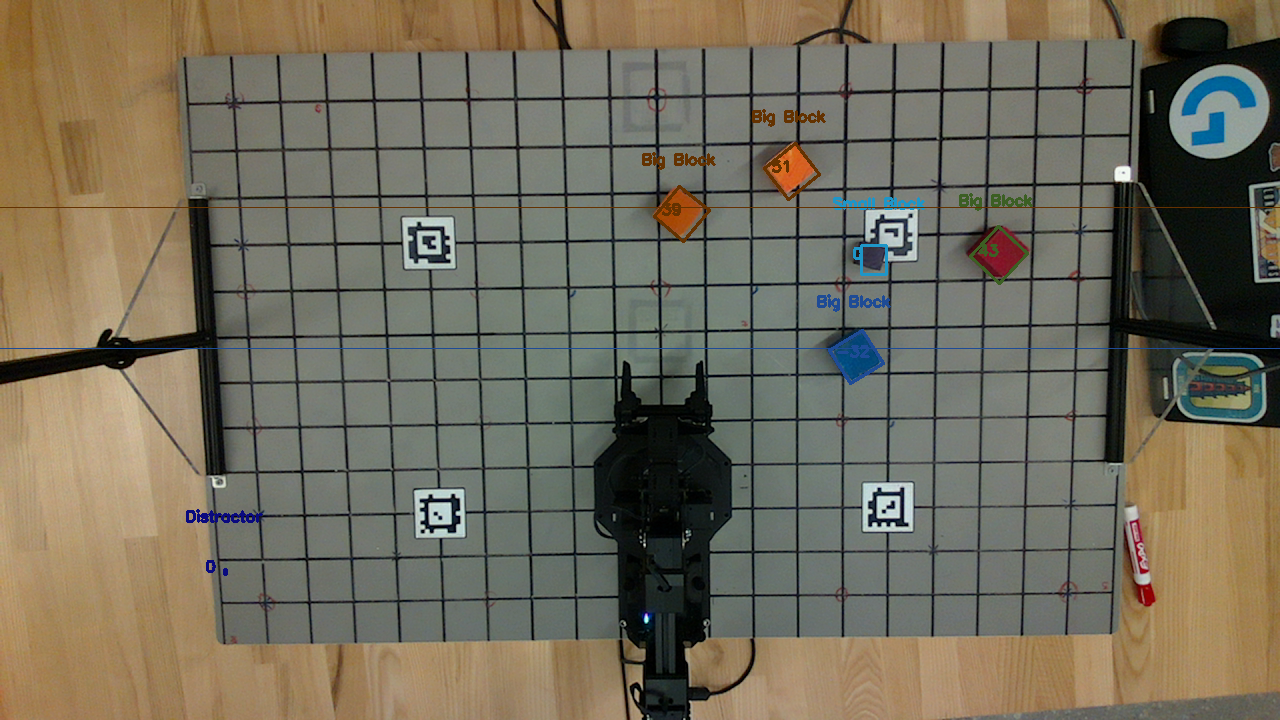
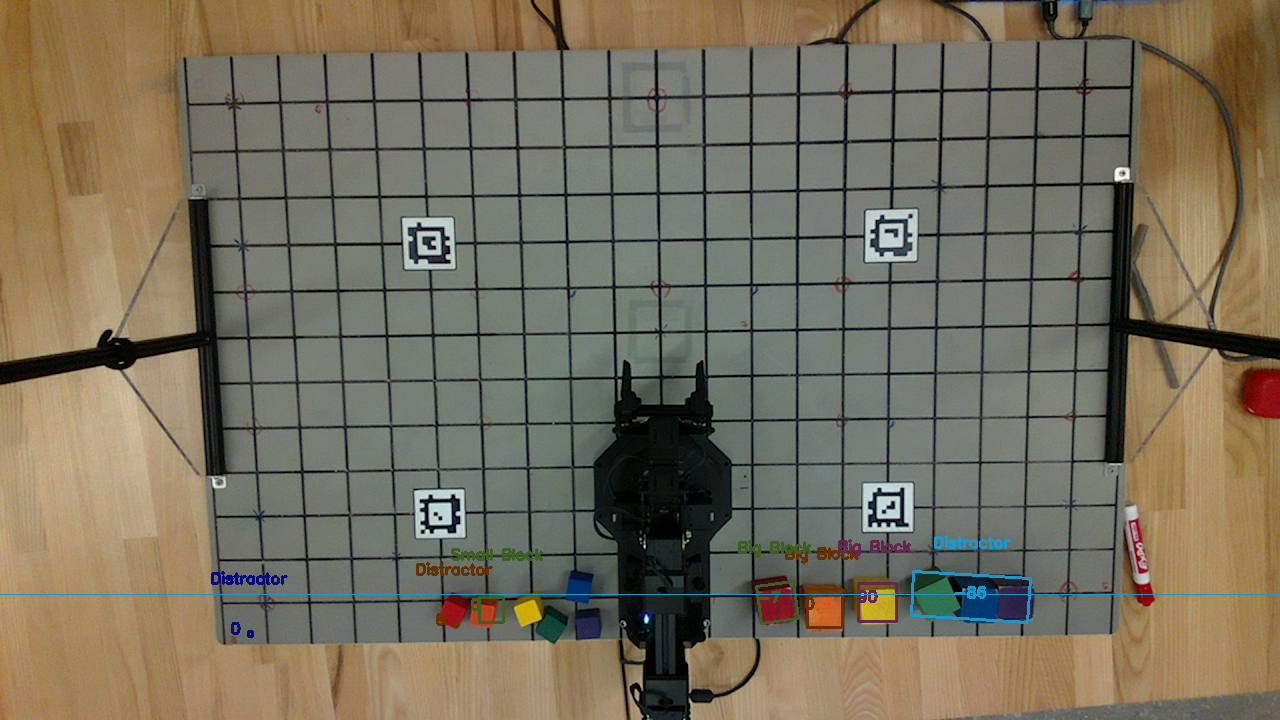
Ik works as of now. Fix bugs in event 2,3

diff --git a/state_machine.py b/state_machine.py
@@ -647,7 +647,7 @@ class StateMachine():
             self.smallBlockPlace1 = np.zeros((4,4))
             self.smallBlockPlace1[0:3,0:3] = get_R_from_euler_angles(0.0,np.pi,0.0)
             self.bigBlockPlace1 = self.smallBlockPlace1.copy()
-            self.smallBlockPlace1[:,-1] = 50*np.array([-6, -2.5, 0, 1/50])
+            self.smallBlockPlace1[:,-1] = 50*np.array([-2.5, -2.5, 0, 1/50])
             self.bigBlockPlace1[:,-1] = 50*np.array([2.5, -2.5, 0, 1/50])
             self.init1 = False
 
@@ -665,14 +665,14 @@ class StateMachine():
             y = block_Frame[1,3]
             block_type = block[5]
 
-            print(block_Frame[:,-1])
-            print(block_type)
-            print(theta)
-            print('')
+            # print(block_Frame[:,-1])
+            # print(block_type)
+            # print(theta)
+            # print('')
 
             #Move small blocks to negative block area
             if y>=0 and block_type == 'Small Block':
-                self.pick_up_block(block_Frame,theta,5)
+                self.pick_up_block(block_Frame,theta,0)
                 self.place_block(self.smallBlockPlace1,"down",0)
                 self.smallBlockPlace1[0,-1] -= 50
                 moves += 1
@@ -685,7 +685,7 @@ class StateMachine():
                     self.bigBlockPlace1[1,-1] += 70
                     self.bigBlockPlace1[0,-1] = 50*-2.5
 
-                self.place_block(self.bigBlockPlace1,"down",33)
+                self.place_block(self.bigBlockPlace1,"down",20)
                 moves +=1
         #Done if robot determined that there was nothin to move
         if moves == 0:
@@ -700,6 +700,9 @@ class StateMachine():
         self.status_message = "Running Event 2"
         self.current_state = "event2"
 
+        self.waypoints = []
+        self.waypoint_grip = []
+
         #This code framework does not currently account for small blocks hidden under large blocks, this can maybe be accounted for by separating blockredetection
         #from normal block detection and checking if there is a significant difference in the countour width and height
         # Can also try checking this by seeing if any of the heights are reasonable multiples of small blocks(n*25) or of big blocks (n*37.5)        
@@ -707,9 +710,9 @@ class StateMachine():
         if self.init2:
             self.smallBlockPlace2 = np.zeros((4,4))
             self.smallBlockPlace2[0:3,0:3] = get_R_from_euler_angles(0.0,np.pi,0.0)
-            self.bigBlockPlace2 = self.smallBlockPlace1.copy()
-            self.smallBlockPlace2[:,-1] = 50*np.array([-6, -2.5, 0, 1/50])
-            self.bigBlockPlace2[:,-1] = 50*np.array([6, -2.5, 0, 1/50])
+            self.bigBlockPlace2 = self.smallBlockPlace2.copy()
+            self.smallBlockPlace2[:,-1] = 50*np.array([-4, -2.5, 0, 1/50])
+            self.bigBlockPlace2[:,-1] = 50*np.array([4, -2.5, 0, 1/50])
             self.init1 = False
 
         self.rxarm.sleep() 
@@ -733,9 +736,9 @@ class StateMachine():
             #Move small blocks to negative block area
             if y>=0 and block_type == 'Small Block':
                 self.pick_up_block(block_Frame,theta,5)
-                self.place_block(self.smallBlockPlace2,"down",0)
+                self.place_block(self.smallBlockPlace2,"down",10)
                 if self.smallStackCt2 < 2:
-                    self.smallBlockPlace2[2, -1] += 25
+                    self.smallBlockPlace2[2, -1] += 23
                 else:
                     self.smallBlockPlace2[2, -1] = 0
                     self.smallBlockPlace2[0,-1] -= 50
@@ -746,12 +749,12 @@ class StateMachine():
             #Move big blocks to positive block araea
             elif y>=0 and block_type == 'Big Block':
                 self.pick_up_block(block_Frame,theta, 10)
-                self.place_block(self.bigBlockPlace2,"down",33)
+                self.place_block(self.bigBlockPlace2,"down",25)
                 if self.bigStackCt2 < 2:
-                    self.bigBlockPlace2[2, -1] += 25
+                    self.bigBlockPlace2[2, -1] += 33
                 else:
                     self.bigBlockPlace2[2, -1] = 0
-                    self.bigBlockPlace2[0,-1] += 50
+                    self.bigBlockPlace2[0,-1] += 75
                     self.bigStackCt2 = -1
 
                 self.bigStackCt2 += 1
@@ -781,7 +784,7 @@ class StateMachine():
             self.smallBlockPlace3 = np.zeros((4,4))
             self.smallBlockPlace3[0:3,0:3] = get_R_from_euler_angles(0.0,np.pi,0.0)
             self.bigBlockPlace3 = self.smallBlockPlace3.copy()
-            self.smallBlockPlace3[:,-1] = 50*np.array([0, -2.5, 0, 1/50])
+            self.smallBlockPlace3[:,-1] = 50*np.array([-0, -2.5, 0, 1/50])
             self.bigBlockPlace3[:,-1] = 50*np.array([0, -2.5, 0, 1/50])
             self.init3 = False
 
@@ -799,25 +802,26 @@ class StateMachine():
             x = block_Frame[0,3]
             y = block_Frame[1,3]
             block_type = block[5]
-            color = block_Frame[1]
-            print(block_Frame[:,-1])
-            print(block_type)
-            print(theta)
-            print(color)
-            print('')
+            color = block[1]
+            # print(block_Frame)
+            # print(block_type)
+            # print(theta)
+            # print(color)
+            # print('')
 
             #Move small blocks to appropriate color position
             if y>=0 and block_type == 'Small Block':
                 self.pick_up_block(block_Frame,theta,5)
                 place_color = self.smallBlockPlace3.copy()
-                place_color[0,-1] = self.event3small[color]
+                place_color[0,-1] = 30*self.event3small[color]
                 self.place_block(place_color,"down",0)
                 moves += 1
             #Move big blocks to positive block araea
             elif y>=0 and block_type == 'Big Block':
                 self.pick_up_block(block_Frame,theta, 10)
                 place_color = self.bigBlockPlace3.copy()
-                place_color[0,-1] = self.event3big[color]            
+                print(self.event3big[color])
+                place_color[0,-1] = 50*self.event3big[color]            
                 self.place_block(place_color,"down",33)
                 moves +=1
         #Done if robot determined that there was nothin to move
@@ -842,7 +846,8 @@ class StateMachine():
         #This code framework does not currently account for small blocks hidden under large blocks, this can maybe be accounted for by separating blockredetection
         #from normal block detection and checking if there is a significant difference in the countour width and height
         # Can also try checking this by seeing if any of the heights are reasonable multiples of small blocks(n*25) or of big blocks (n*37.5)        
-
+        self.waypoints = []
+        self.waypoint_grip = []
 
         if self.init4:
             #Run event3 first so that we have an easy set of blocks to work with
@@ -937,7 +942,7 @@ class StateMachine():
             self.rxarm.sleep()
             rospy.sleep(2)
         else:
-            remain_ t = dur - (time.time() - self.now_b)
+            # remain_ t = dur - (time.time() - self.now_b)
             self.status_message =  "Time left to place new block: %0.2f "%remain_t
             
         
@@ -961,7 +966,7 @@ class StateMachine():
         # self.waypoint_grip = []
 
         approachFrame = pickupFrame.copy()
-        approachFrame[2,-1] += approach_height
+        approachFrame[2,-1] += 100
         if bonus_:
             approachFrame[2,-1] = 100        
         pickupFrame[2,-1] -= offset
@@ -982,6 +987,9 @@ class StateMachine():
         self.waypoints.append(approach)
         self.waypoint_grip.append(1)
 
+        # self.waypoints.append([0,0,0,0,0])
+        # self.waypoint_grip.append(1)
+
     def place_block(self, placeFrame, direction, offset, bonus_ = False):
         """!
         @brief      Adds waypoints to place block
@@ -989,7 +997,7 @@ class StateMachine():
         # self.waypoints = []
         # self.waypoint_grip = []
         approachFrame = placeFrame.copy()
-        approachFrame[2,-1] += approach_height
+        approachFrame[2,-1] += 100
         if bonus_:
             approachFrame[2,-1] = 100
         placeFrame[2,-1] += offset
@@ -1018,7 +1026,10 @@ class StateMachine():
         self.waypoint_grip.append(0)       
 
         self.waypoints.append(approach)
-        self.waypoint_grip.append(0)     
+        self.waypoint_grip.append(0)
+
+        # self.waypoints.append([0,0,0,0,0])
+        # self.waypoint_grip.append(0)     
 
     def next_color(self, current_color):
         #Determines next color in ROYGBV
@@ -1032,7 +1043,7 @@ class StateMachine():
         return(blockData[0][2,-1])
 #Testing color_sort
     def test(self):
-        print('wut')
+        # print('wut')
         self.next_state = 'idle'
         self.current_state = 'test'
         self.detect_blocks_once()
@@ -1040,9 +1051,9 @@ class StateMachine():
         for data in self.camera.blockData:
             print(data[1])
 
-        print('')
-        print('Sorting')
-        print('')
+        # print('')
+        # print('Sorting')
+        # print('')
         self.camera.blockData.sort(key=self.color_sort)
 
         for data in self.camera.blockData:

diff --git a/kinematics.py b/kinematics.py
@@ -516,7 +516,9 @@ def IK_geometric_event_1(dh_params, T,thetaBlock):
     l1 = dh_params[1][0] # 205.73
     l2 = dh_params[2][0] # 200
     d1 = dh_params[0][2] # 103.91
-    link6_len = dh_params[4][2]; 
+    link6_len = dh_params[4][2]-5 # 174.15
+   
+    
     angle_offset = math.pi/2 - math.atan2(50,200)
 
     # End Effector Location
@@ -529,30 +531,34 @@ def IK_geometric_event_1(dh_params, T,thetaBlock):
     direction = "down"
 
     if direction=="down":
+        print('down')
         pos_wrist = pos_ee + np.array([0,0,link6_len])
-        R_0_5 = get_R_from_euler_angles(math.pi/2 + thetaBlock,np.pi,0.0)
+        R_0_5 = get_R_from_euler_angles(0.0,np.pi,0.0)
         ox = pos_wrist[0]
         oy = pos_wrist[1]
         oz = pos_wrist[2]
-        planar_x = math.sqrt(ox**2 + oy**2)
-        if planar_x <= 375:
+        planar_x = math.sqrt(ox*ox + oy*oy)
+        # print('')
+        # print(planar_x)
+        if planar_x <= 340:
             direction = "down"
-        elif  planar_x <=550:
+        elif  planar_x <=600:
             direction = "flat"
         else:
             print("OUTSIDE OF WORKSPACE!!!!!")
             error
 
     if direction=="flat":
-        R_0_5 = get_R_from_euler_angles(math.atan2(pose[1],pose[0]),np.pi/2,0.0)
+        print('flat')
+        R_0_5 = get_R_from_euler_angles(math.atan2(pose[1],pose[0]),1.25*np.pi/2,0.0)
         pos_wrist = pos_ee - link6_len*np.matmul(R_0_5,np.array([0,0,1]))
 
-            # Wrist location
+    # Wrist location
     ox = pos_wrist[0]
     oy = pos_wrist[1]
     oz = pos_wrist[2]
 
-    planar_x = math.sqrt(ox**2 + oy**2)
+    planar_x = math.sqrt(ox*ox + oy*oy)
     planar_y = oz - d1
 
 
@@ -563,38 +569,34 @@ def IK_geometric_event_1(dh_params, T,thetaBlock):
 
     # Q3 - Calculation
     c3 = ((planar_x**2 + planar_y**2) - l1**2 -l2**2)/(2*l1*l2)
-    
+    # print(c3)
+    # print('')
     if np.absolute(c3) > 1:
         print('Postion Unreachable')
-    elif c3 ==1:
+    elif c3 ==1.0:
         theta_2 = math.atan2(oy,ox)
-        theta_3 = 0
-        theta_3_alt = 0
-    elif c3 ==-1 and (planar_x**2 + planar_y**2) != 0:
+        theta_3 = 0.0
+        theta_3_alt = 0.0
+    elif c3 ==-1.0 and (planar_x**2 + planar_y**2) != 0.0:
         theta_2 = math.atan2(oy,ox)
         theta_3 = math.pi
         theta_3_alt = -math.pi
-    elif c3 ==-1 and (planar_x**2 + planar_y**2) == 0:
-        theta_2 = 0 # picking zero, as it has infinite solutions
+    elif c3 ==-1.0 and (planar_x**2 + planar_y**2) == 0.0:
+        theta_2 = 0.0 # picking zero, as it has infinite solutions
         theta_3 = math.pi
         theta_3_alt = -math.pi
         print('Infinite solutions')
     else:
         theta_3 = math.acos(c3)
-        theta_3_alt = -math.acos(c3)
 
     theta_3 = -theta_3    # Choosing Elbow Up 
     q3 = theta_3 + angle_offset
-    q3_alt = theta_3_alt + angle_offset
 
     # Q2 - Calculation
     theta_2 = math.atan2(planar_y,planar_x) - math.atan2(l2*math.sin(theta_3),l1+l2*math.cos(theta_3))
-    theta_2_alt = math.atan2(planar_y,planar_x) - math.atan2(l2*math.sin(theta_3_alt),l1+l2*math.cos(theta_3_alt))
     q2 = angle_offset - theta_2
-    q2_alt = angle_offset - theta_2_alt
 
     q_1_2_3_A1 = np.array([q1,q2,q3])
-    q_1_2_3_A2 = np.array([q1,q2_alt,q3_alt])
 
     # For A1 - For Q3, Q4, Q5 calculations
     joint_angles_mod_A1 = np.array([q1,q2,q3,0.0,0.0])
@@ -602,70 +604,20 @@ def IK_geometric_event_1(dh_params, T,thetaBlock):
     R_0_3_A1 = T_0_3_A1[0:3,0:3]
     R_3_5_A1 = np.matmul(np.linalg.inv(R_0_3_A1), R_0_5)
 
-    # For A2 - For Q3, Q4, Q5 calculations
-    joint_angles_mod_A2 = np.array([q1,q2_alt,q3_alt,0.0,0.0])
-    T_0_3_A2 = FK_dh(dh_params, joint_angles_mod_A2, 3)
-    R_0_3_A2 = T_0_3_A2[0:3,0:3]
-    R_3_5_A2 = np.matmul(np.linalg.inv(R_0_3_A2), R_0_5)
-
     q4_A1,q5_A1,q6_A1 = get_euler_angles_from_T(R_3_5_A1)
-    q4_A2,q5_A2,q6_A2 = get_euler_angles_from_T(R_3_5_A2)
-
+    
     # Checking q1,q2,q3,q4,q5
     joint_angles_A1 = np.concatenate((q_1_2_3_A1, np.array([q4_A1,q5_A1,q6_A1])), axis=None)
-    joint_angles_A2 = np.concatenate((q_1_2_3_A2, np.array([ q4_A2,q5_A2,q6_A2])), axis=None)
-
+    
     T_A1 = FK_dh(dh_params, joint_angles_A1, 5)
-    T_A2 = FK_dh(dh_params, joint_angles_A2, 5)
 
-
-    # pose_A1 = get_pose_from_T(T_A1)
-    # if np.allclose(pos_ee, np.array(pose_A1[0:3]), rtol=1e-04, atol=1e-05, equal_nan=False):
-    # print(T_A1)
-    # print('\n')
-    # print(np.array(pose_A1[0:3]))
-    # print('\n')
     if direction == "flat":
         q7 = 0
     else:
-        q7 = math.pi/2 + thetaBlock
+        q7 = thetaBlock
         #print(thetaBlock)
     return [q1,q2,q3,q4_A1,q7]
 
-    # try:
-    #     pose_A1 = get_pose_from_T(T_A1)
-    #     if np.allclose(pos_ee, np.array(pose_A1[0:3]), rtol=1e-04, atol=1e-05, equal_nan=False):
-    #         # print(T_A1)
-    #         # print('\n')
-    #         # print(np.array(pose_A1[0:3]))
-    #         # print('\n')
-    #         if direction == "flat":
-    #             q7 = 0
-    #         else:
-    #             q7 = q6_A1
-    #         return [q1,q2,q3,q4_A1,q7]
-    #     else:
-    #         q8 = error_intentional
-    # except:
-    #     pose_A2 = get_pose_from_T(T_A2)
-    #     # print(T_A2)
-    #     # print('\n')
-    #     # print(np.array(pose_A2[0:3]))
-    #     # print('\n')
-    #     if direction == "flat":
-    #         q7 = 0
-    #     else:
-    #         q7 = q6_A2
-    #     return [q1,q2,q3,q4_A2,q7]
-
-    # if direction=="down":
-    #     q4 = q2-q3-math.pi/2  
-    #     q5 = q1
-    # elif direction=="flat":
-    #     q4 = q2-q3
-    #     q5 = 0
-
-    # return [q1_f,q2_f,q3_f,q4_f,q5_f]
 
 
 def rotation_matrix(theta1, theta2, theta3, order='xyz'):
